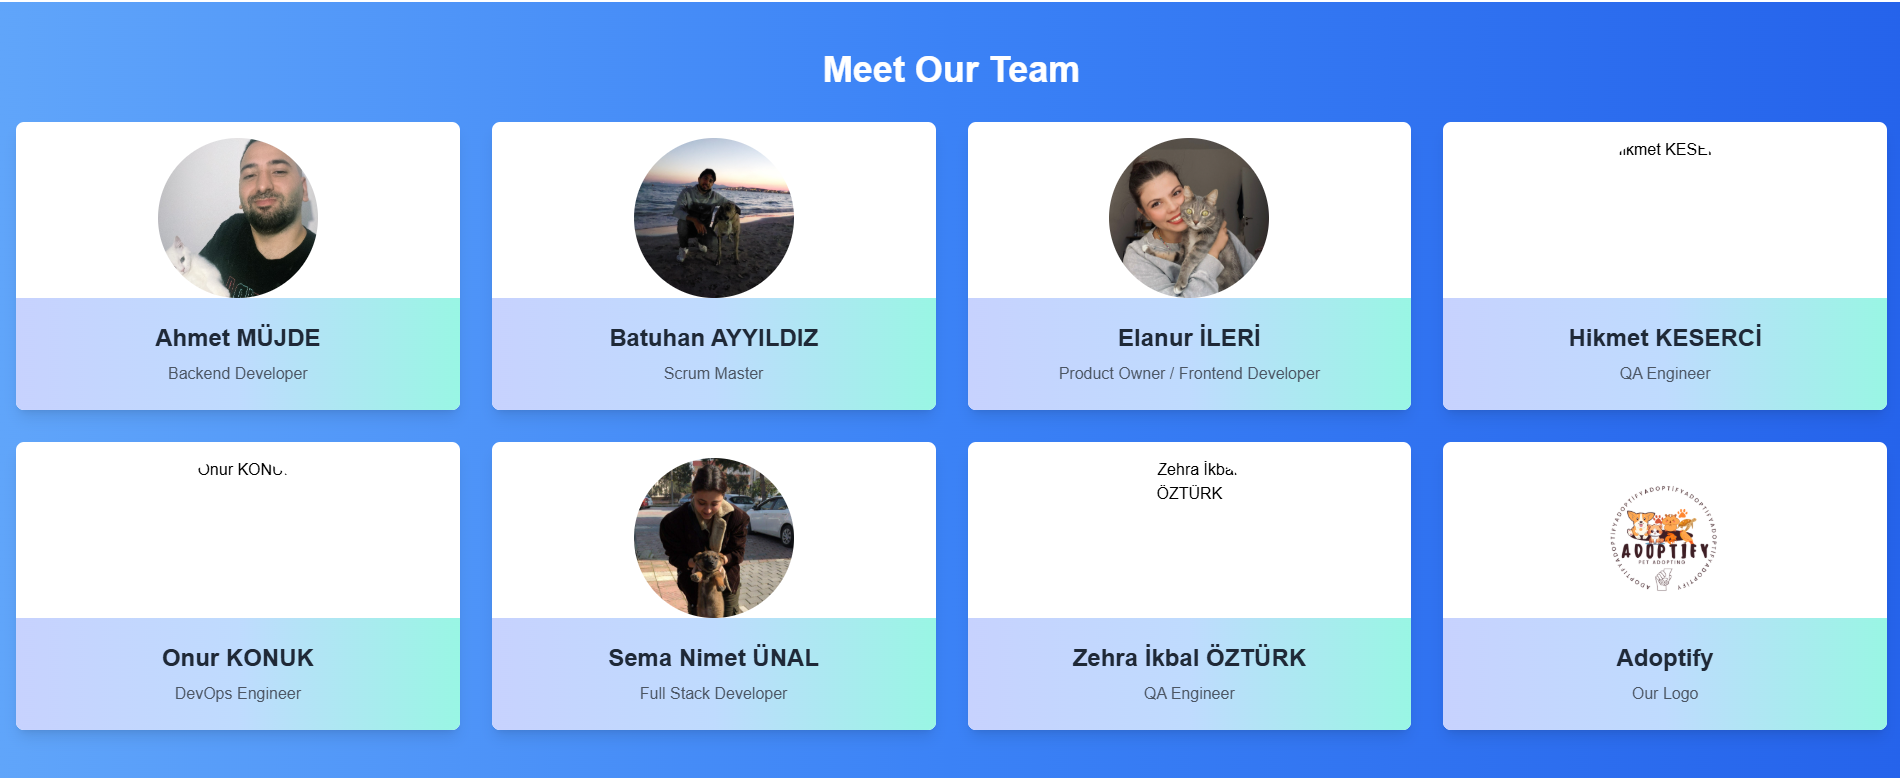
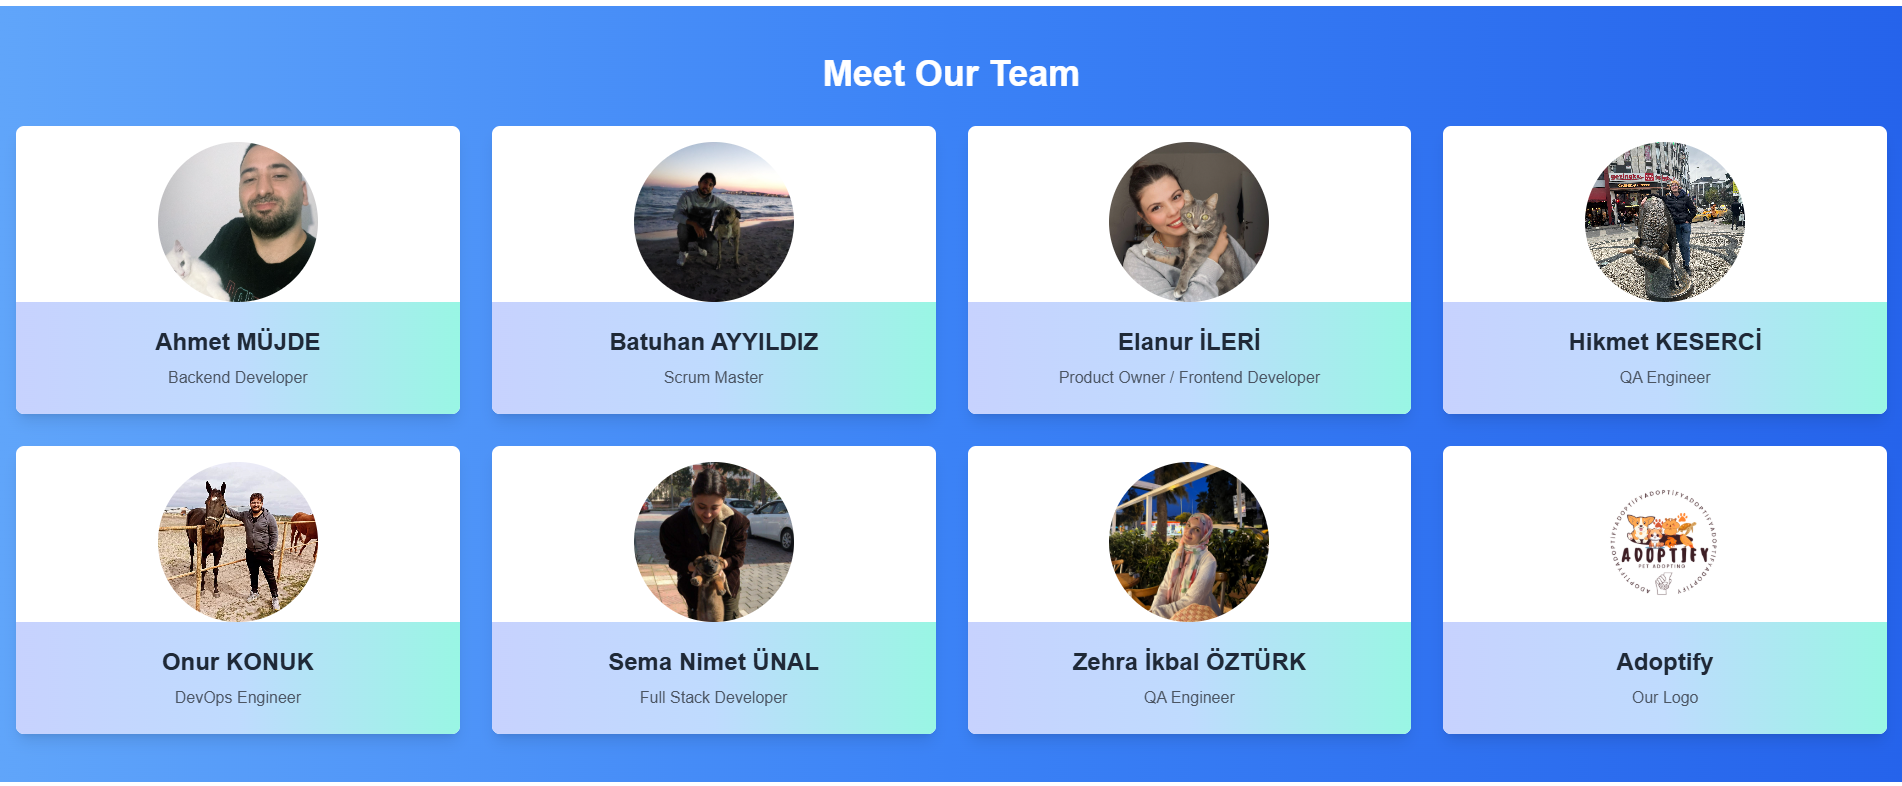
About kısmı güncellendi

diff --git a/src/pages/About.jsx b/src/pages/About.jsx
@@ -9,7 +9,7 @@ const About = () => {
         { name: 'Onur KONUK', photo: '/Onur_Konuk.jpg', role: 'DevOps Engineer' },
         { name: 'Sema Nimet ÜNAL', photo: '/SemaNimet_Unal.jpg', role: 'Full Stack Developer' },
         { name: 'Zehra İkbal ÖZTÜRK', photo: '/ZehraIkbal_Ozturk.jpg', role: 'QA Engineer' },
-        { photo: '/Adoptify_logo.png', name: 'Adoptify', role: 'Our Logo' }, // Logo için ekleme
+        { photo: '/Adoptify_logo.png', name: 'Adoptify', role: 'Adoptify Pet Adopting'}, // Logo için ekleme
     ];
 
     return (
